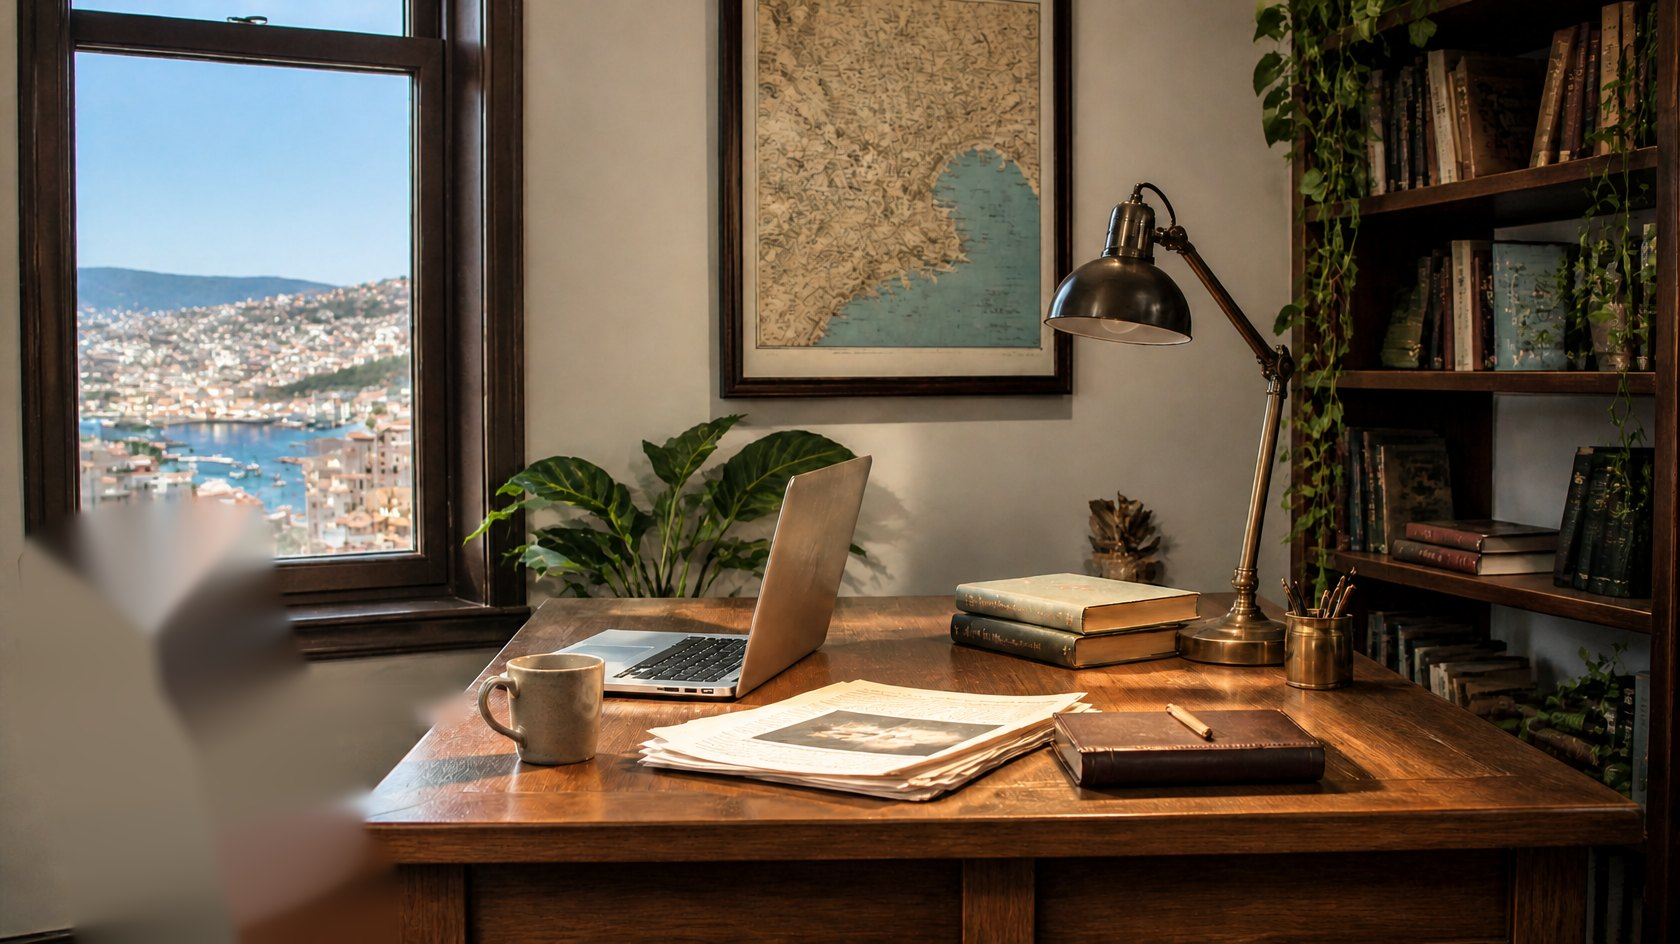
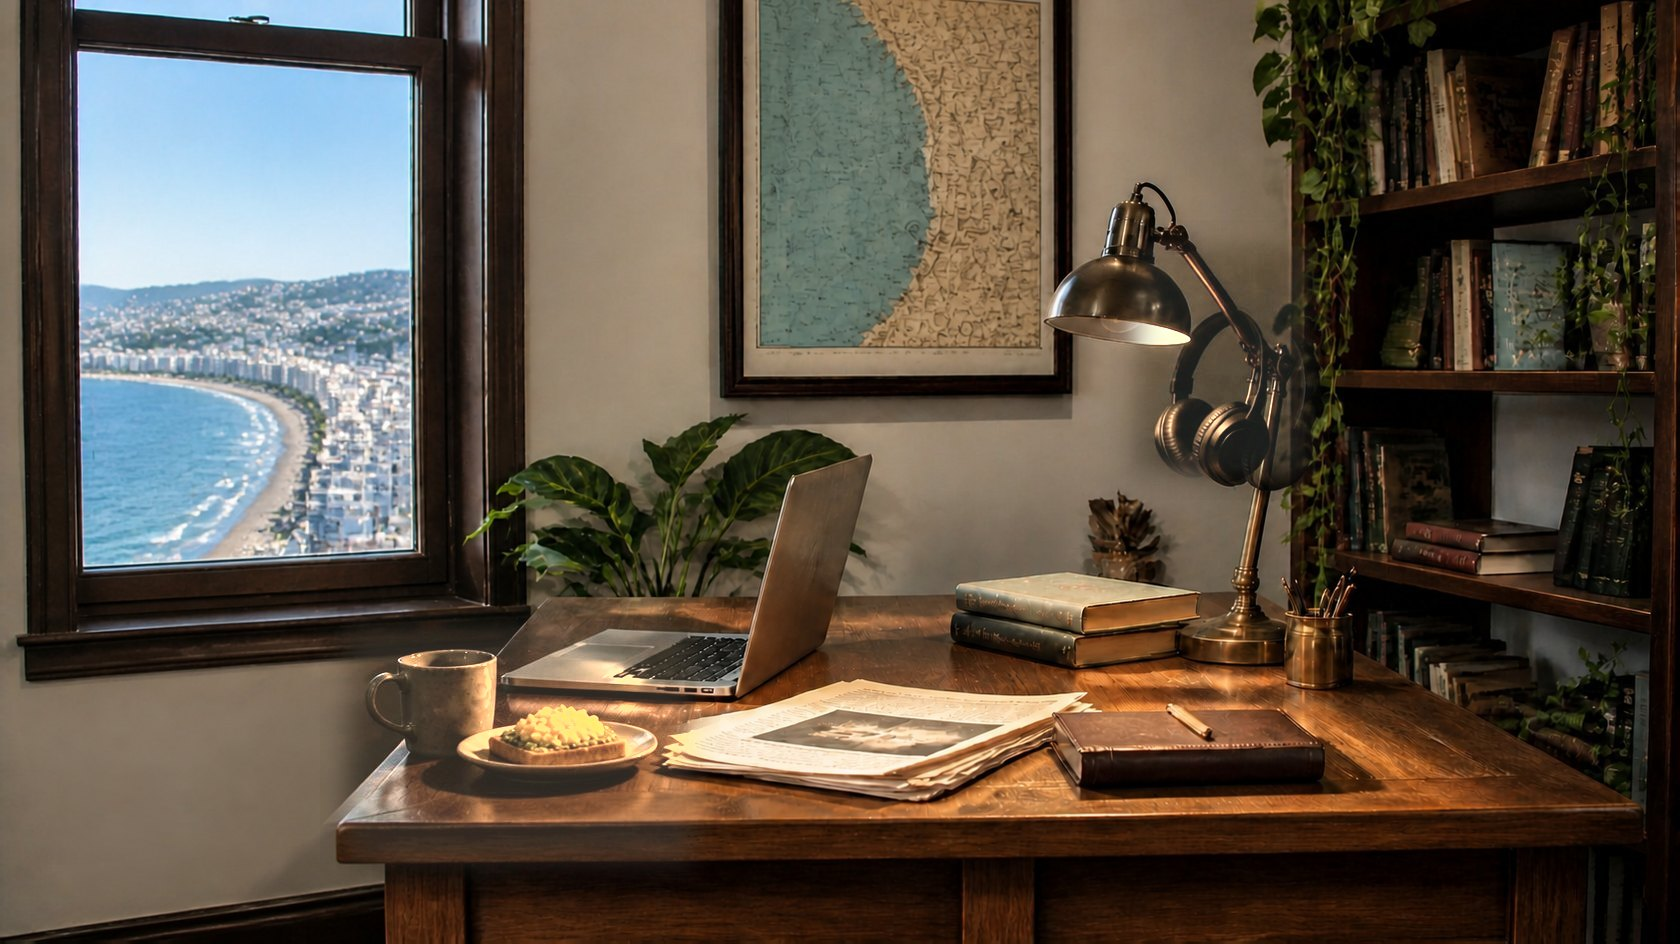
Escritorio más propio: audífonos, pan con palta, vista a Viña y mapa de la costa
Fotos nuevas (sentado y de pie, día y noche) alineadas con las anteriores.
Dos objetos nuevos: audífonos (Lo que estoy escuchando) y pan con palta
(Recomendaciones), con textos pendientes entre corchetes. Nueva imagen para compartir.

Claude-Session: https://claude.ai/code/session_014ogs4SUWWT5opKyLTdTyxg

diff --git a/assets/js/escritorio.js b/assets/js/escritorio.js
@@ -29,25 +29,29 @@ function useContent(c){
 /* zonas de cada objeto, en % de cada foto */
 const WIDE = {
   proyectos:{ x:35.1, y:47.7, w:17, h:23 },
-  columnas:{ x:38.1, y:71.5, w:26.8, h:13.5 },
+  columnas:{ x:39.5, y:71.5, w:25.4, h:13.5 },
   "en-que-ando":{ x:62.2, y:74.2, w:17, h:9.6 },
   recorrido:{ x:43, y:0.5, w:20.8, h:41.5, below:true },
   observatorio:{ x:4.8, y:4, w:19.8, h:46, below:true },
-  conversemos:{ x:28.3, y:68.9, w:8, h:12.7 },
+  conversemos:{ x:21.5, y:68.5, w:8.5, h:10.5 },
+  recomendaciones:{ x:27, y:76.3, w:12.3, h:6.8 },
   "sobre-mi":{ x:56.5, y:60.6, w:14.9, h:10.2 },
   herramientas:{ x:76.2, y:59.9, w:4.5, h:13.2 },
-  lampara:{ x:61.9, y:19, w:15.5, h:38 }
+  escuchando:{ x:69, y:35.5, w:7.4, h:15.5 },
+  lampara:{ x:61.9, y:19, w:9.2, h:18 }
 };
 const SEATED = {
   proyectos:{ x:33.3, y:67.3, w:29.2, h:9.2, zs:1.6 },
-  columnas:{ x:26.5, y:75.5, w:36, h:21, zs:1.8 },
+  columnas:{ x:34, y:75.5, w:29, h:21, zs:1.8 },
   "en-que-ando":{ x:64.5, y:77, w:23, h:17, zs:1.9 },
   recorrido:{ x:36.5, y:0.5, w:23, h:31, zs:1.7, below:true },
   observatorio:{ x:0.5, y:1, w:17, h:49, zs:1.6, below:true },
-  conversemos:{ x:13.5, y:66, w:11.5, h:19, zs:2.0 },
+  conversemos:{ x:13, y:66, w:12, h:17, zs:2.0 },
+  recomendaciones:{ x:16.5, y:83, w:17, h:12.5, zs:2.0 },
   "sobre-mi":{ x:62, y:54, w:15, h:14, zs:2.0 },
   herramientas:{ x:81.5, y:59, w:6.5, h:14, zs:2.2 },
-  lampara:{ x:62, y:8, w:19, h:20 }
+  escuchando:{ x:72.5, y:25, w:8.8, h:20, zs:1.9 },
+  lampara:{ x:62, y:7, w:11, h:18 }
 };
 const SCREEN_QUAD = [[36.13,40.68],[59.17,40.36],[59.64,65.47],[35.95,65.78]];
 const CHAIR = { x:1.2, y:55, w:22.6, h:44.5 };

diff --git a/index.html b/index.html
@@ -50,7 +50,7 @@
       <div class="stage pov" id="pov">
         <div class="arrive" id="arrive">
           <div class="zoom" id="zoomPov">
-            <img class="full" id="povNight" src="img/pov-noche.jpg" alt="El escritorio visto desde la silla: el computador encendido al centro, papeles, un cuaderno, una taza, la lámpara a la derecha y la ventana a la izquierda">
+            <img class="full" id="povNight" src="img/pov-noche.jpg" alt="El escritorio visto desde la silla: el computador encendido al centro, papeles, un cuaderno, una taza y un pan con palta, la lámpara con audífonos a la derecha y la ventana a la bahía de Viña del Mar">
             <img class="full fx" id="povDay" src="img/pov-dia.jpg" alt="" aria-hidden="true">
             <div class="fx" id="povDusk" style="background:linear-gradient(110deg,rgba(255,140,70,.42),rgba(120,60,120,.18));mix-blend-mode:soft-light"></div>
             <div class="fx" id="povDuskSky" style="inset:auto;left:0;top:0;width:17.3%;height:51%;background:linear-gradient(180deg,#F08A5D,#F6C08F 55%,rgba(246,192,143,0));mix-blend-mode:screen"></div>

diff --git a/docs/PROMPTS.md b/docs/PROMPTS.md
@@ -17,6 +17,12 @@ La versión de día se pidió con la vista sentada de noche y la habitación de 
 ## 4. El pasillo (guardado en `extras/pasillo/`)
 > Photorealistic interior photograph of a dim, quiet hallway at night, straight-on symmetric view, centered: a closed solid dark walnut wooden door with two recessed panels, a small blank polished brass name plate on the upper panel with no text, a brass lever handle on the right, warm golden lamplight leaking through the gap under the door onto a worn wooden plank floor. […] No people, no text, no signs, no logos.
 
+## 5. Más mío (29 oct 2026)
+Sobre la foto sentado de noche que ya estaba en el sitio, con cambios mínimos:
+> Edit the reference photograph with minimal changes. Keep everything else exactly identical […] Make only these four changes, all photorealistic: (1) a pair of large black over-ear headphones hangs naturally from the arm of the brass desk lamp; (2) a small white plate with toasted bread spread with mashed green avocado and topped with soft scrambled eggs; (3) the window now shows the night view from Concón, Chile, looking south across the bay toward Reñaca and Viña del Mar; (4) the framed map becomes an old, realistic printed map of the central Chilean coast around Valparaíso, Viña del Mar and Concón, no readable text.
+
+Las otras tres fotos (sentado de día, de pie de noche y de día) se pidieron con la foto antigua correspondiente y esta nueva como referencias. En la de pie de día, el tazón, el plato y los audífonos se trasplantaron desde la de noche para que no aparezcan dobles al cambiar la luz.
+
 ## Procesamiento
 - `herramientas/alinear-dia-noche.py`: alinea la foto de día sobre la de noche para que el cambio de luz no salte.
 - `herramientas/recortar-silla.py`: separa la silla del fondo para darle profundidad al moverse.

diff --git a/README.md b/README.md
@@ -1,6 +1,6 @@
 # Escritorio de Pedro Maiz
 
-Mi sitio personal, pensado como una habitación: abres la página y estás sentado frente a mi escritorio en Valparaíso. Cada objeto abre una parte de lo que hago.
+Mi sitio personal, pensado como una habitación: abres la página y estás sentado frente a mi escritorio, con la bahía de Viña del Mar en la ventana. Cada objeto abre una parte de lo que hago.
 
 | Objeto | Abre |
 |---|---|
@@ -12,6 +12,8 @@ Mi sitio personal, pensado como una habitación: abres la página y estás senta
 | El café | Contacto y redes |
 | Los libros | Sobre mí |
 | Los lápices | Herramientas |
+| Los audífonos | Lo que estoy escuchando |
+| El pan con palta | Recomendaciones de lugares y recetas |
 | La lámpara | Prende y apaga la luz |
 
 La luz sigue la hora real de Valparaíso, hay sonido ambiente (se apaga en la esquina inferior derecha) y en las esquinas hay indicadores mínimos: hora, luz, explorado, sonido y postura.
